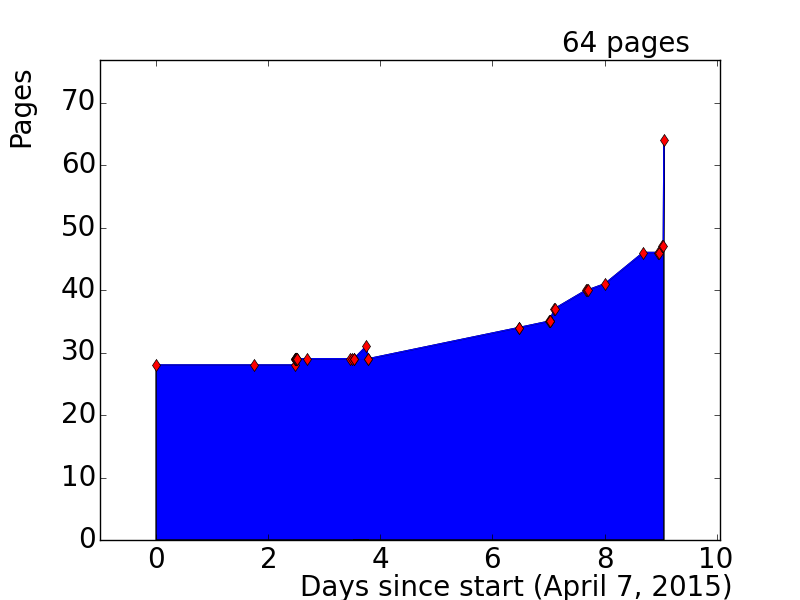
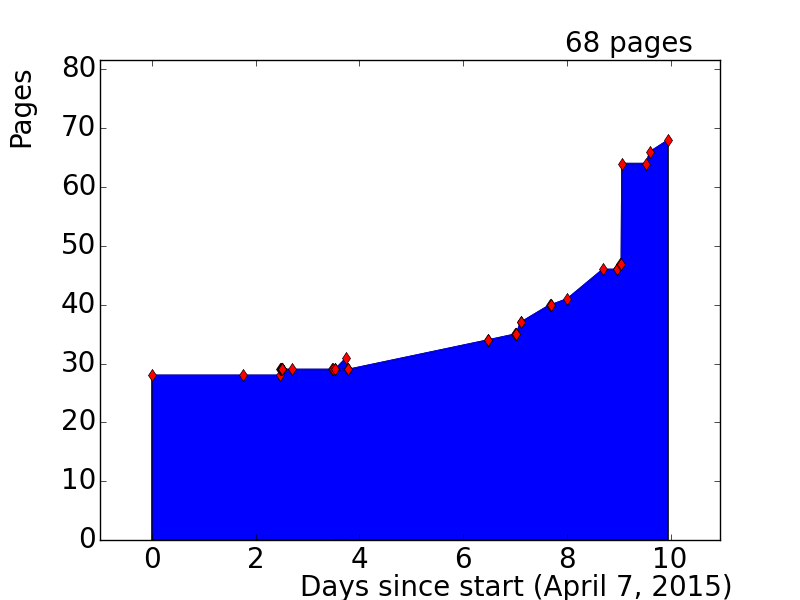
Almost done with LAr

diff --git a/ch3-experiment.tex b/ch3-experiment.tex
@@ -136,13 +136,17 @@ In general, a higher total integrated luminosity, $L{\mathrm{int}}=\int L dt$, i
 The delivered luminosity in 2011 and 2012 will be discussed later in section~\ref{sec:luminosity-measurement}.
 
 
-\section{The ATLAS Experiment}
+\section{The ATLAS Experiment}\label{sec:the-atlas-experiment}
+
 The ATLAS detector is a large, cylindrical collider detector located at IR1 on the LHC ring (figure~\ref{fig:LHC-IPs}). The detector measures the energy and momenta of charged and colored particles produced in the collisions provided by the LHC. It consists of several subsystems occupying a cylinder with a diameter of $25~\mbox{m}$ and a length of $46~\mbox{m}$, with a combined weight of approximately 7,000 tons. Closest to the interaction region, the inner detector performs momenta measurements of charged particles by tracking their movement through a solenoidal magnetic field (section~\ref{sec:inner-detector}). Past the inner detector solenoid magnet, electromagnetic and hadronic calorimeters measure the energy of electrons, photons, and hadrons. Finally, the muon spectrometer provides additional tracking and particle identification for muons in large toroidal magnetic field. 
 
-\underline{\textbf{Coordinate System}}
+This section describes the design of the magnets, inner detector, calorimeters, and muon spectrometer. The identification of objects and the associated performance are described in section~\ref{sec:object-reconstruction}. 
+
+\subsection{Coordinate System}\label{sec:ATLAS-coordinate-system}
+
 The ATLAS detector uses a right-handed coordinate system, with $\hat{x}$ pointing from the interaction point towards the center of the LHC ring, $\hat{y}$ pointing up, and $\hat{z}$ pointing along the ring towards IR2. Due to the symmetry of the detector, cylindrical coordinates ($r,\theta,\phi$) are often used, with $r$ the transverse distance from the beam line, $\theta$ the polar angle from the beamline, and $\phi$ the azimuthal angle in the $x$-$y$ plane. The polar angle can also be expressed in term of the pseudorapidity, $\eta = -\log \tan \frac{\theta}{2}$, which is useful for describing the geometry of particles in part because difference in pseudorapidity, $\Delta\eta$, are invariant under longitudinal Lorentz boost along $\hat{z}$. For massless particles, the pseudorapidity is equal to the rapidity, $y=\frac12 \log \frac{E+p_z}{E-p_z}$. 
 
-\subsection{Magnets}
+\subsection{Magnets}\label{sec:ATLAS-magnets}
 ATLAS relies on four powerful superconducting magnets to bend the trajectories of charged particles, allowing the tracking detectors to provide measurements of their momenta. The solenoid provides a $2~\mbox{T}$ axial magnetic field in the volume of the inner detector, while the barrel and two endcap toroids provide a toroidal magnetic field ranging from $0.5$--$1~\mbox{T}$ for the muon spectrometer. The geometry of the magnets is shown in figure~\ref{figure:ATLAS-magnets-sketch}. Key parameters for the magnet system are shown in table~\ref{table:ATLAS-magnet-parameters}.
 
 \begin{figure}[htbp]
@@ -217,7 +221,8 @@ ATLAS relies on four powerful superconducting magnets to bend the trajectories o
 
 
 
-\underline{\textbf{Solenoid}}
+\subsubsection{Solenoid}\label{sec:ATLAS-magnets-solenoid}
+
 The central solenoid is shown in figure~\ref{fig:solenoid}. The solenoid consists of a single coil with 1154 windings made of high strength Al-stabilized NbTi conductor. The coil has an inner radius of $2.46~\mbox{m}$, an outer radius of $2.56~\mbox{m}$, and a length of $5.8~\mbox{m}$. With a nominal current of $7.73~\mbox{kA}$, the magnetic field is $1.998~\mbox{T}$ at the center of the solenoid, falling to $1.8~\mbox{T}$ at $z=1.7~\mbox{m}$ and $0.9~\mbox{T}$ the end of the inner detector cavity. The magnetic flux is returned via the steel in the hadronic calorimeter and its support structures. Liquid helium is used to cool the superconducting coil to an operating temperature of $4.5~\mbox{K}$. At nominal current, the stored energy is $40~\mbox{MJ}$. 
 
 The magnetic field at $z=0$ is shown in figure~\ref{fig:ATLAS-solenoid-Bfield}.
@@ -238,7 +243,8 @@ The magnetic field at $z=0$ is shown in figure~\ref{fig:ATLAS-solenoid-Bfield}.
 
 
 
-\underline{\textbf{Toroid}}
+\subsubsection{Toroid}\label{sec:ATLAS-magnets-toroid}
+
 The magnetic field for the muon spectrometer is provided by three large toroid magnets, each with eight superconducting coils. The magnets are shown in figure~\ref{fig:ATLAS-toroids}. The barrel toroid measures $25.3~\mbox{m}$ in length, with inner and outer diameters of $9.4~\mbox{m}$ and $20.1~\mbox{m}$, respectively. The two end-cap toroids are $5.0~\mbox{m}$ in length, with inner and outer diameters of $1.65~\mbox{m}$ and $10.7~\mbox{m}$, respectively. Both types of toroid contain eight coils, with 120 windings each in the barrel and 116 windings each in the end-caps. The endcap coils are rotated by $22.5^{\circ}$ from the barrel coils to optimize the bending power in the overlap region between the magnets. Like the solenoid, the conductor is Al-stabilized NbTi, operated at $4.5~\mbox{K}$. The nominal current is $20.5~\mbox{kA}$, producing a magnetic field that varies from $0.15~\mbox{T}$ to $2.5~\mbox{T}$ in the barrel region, and $0.2~\mbox{T}$ to $3.5~\mbox{T}$ in the end-caps. The bending power of the toroid is shown as a function of $\eta$ in figure~\ref{fig:toroid-bending-power}. The total stored energy at nominal current is $1.58~\mbox{GJ}$. 
 
 The field integral of the toroid is shown as a function of $\eta$ in figure~\ref{fig:ATLAS-toroid-Bintegral}. The field integral drops at the boundary between the barrel and end-caps, where the fields from the two magnets partially cancel. 
@@ -265,7 +271,8 @@ The field integral of the toroid is shown as a function of $\eta$ in figure~\ref
 
 
 
-\subsection{Inner Detector}
+\subsection{Inner Detector}\label{sec:ATLAS-inner-detector}
+
 The inner detector performs tracking charged particles traversing the $2~\mbox{T}$ solenoidal magnetic field in the region $|\eta|<2.5$. It also performs electron identification in the range $|\eta|<2.0$. It consists of three subdetectors occupying the volume closest to the interaction region, directly outside the beam pipe, as shown in figure~\ref{fig:ATLAS-ID}. Proceeding outwards from the interaction point, these are the pixel detector, the semiconductor tracker (SCT), and the transition radiation tracker (TRT). The pixel detector nominally provides three track measurements with high spatial resolution using silicon pixels. The SCT provides an additional four measurements using silicon strips. Finally, for particles with $|\eta|<2.0$, the TRT provides an average of 36 measurements per track using gaseous straw tubes, which aids the pattern recognition, improves the momentum resolution, and performs electron identification. The paths traversed by tracks through the barrel and end-cap layers are shown in figure~\ref{fig:ATLAS-ID-tracks}.
 
 \begin{figure}[htbp]
@@ -295,7 +302,7 @@ The inner detector performs tracking charged particles traversing the $2~\mbox{T
 \end{figure}
 
 
-\underline{\textbf{Pixel Detector}}
+\subsubsection{Pixel Detector}\label{sec:ATLAS-id-pixel-detector}
 
 The pixel detector consists of 1744 identical pixel sensors, each measuring $19\times63~\mbox{mm}^2$ and containing $144\times 328=47232$ pixels, for a total of $80.4\times 10^6$ pixels. The size of the pixels is dictated by the front-end electronics: in 128 of the 144 columns, the pixels have a pitch of $50\times 400 \micron^2$, while the remaining 16 columns have a pitch of $50\times 600 \micron^2$. For space reasons, eight pairs of pixels in each column are ganged to a common readout, giving a total of 46080 readout channels per sensor.
 
@@ -330,7 +337,7 @@ In the barrel, the pixels have an intrinsic accuracy of $10~\micron$ in the $R-\
 	\label{table:ATLAS-pixel-layout}
 \end{table}
 
-\underline{\textbf{SCT}}
+\subsubsection{SCT}\label{sec:ATLAS-id-sct}
 
 The SCT consists of 15912 sensors using single-sided, p-in-n type silicon strips. The use of single-sided strips lowers both the cost and the number of readout channels of the detector, which covers significantly more area than the pixel detector ($61.1~\mbox{m}^2$ versus $2.3~\mbox{m}^2$). In the barrel, the strips have a pitch of $80~\micron$ and a length of $12~\cm$. In the endcaps, the sensors are trapezoidal with radially arranged strips, with a mean strip pitch of $80~\micron$ and a length of $12~\cm$. Each sensor has 768 active strips. Like the pixel sensors, the operating voltage will be $\sim150~\mbox{V}$ initially, and will increase to $250$-$350~\mbox{V}$ after several years of irradiation, depending on the location of the sensor. 
 
@@ -356,11 +363,120 @@ The intrinsic accuracy of the SCT sensors is $17~\micron$ along the strip pitch,
 	\label{fig:ATLAS-SCT-layout}
 \end{table}
 
-\underline{\textbf{TRT}}
+\subsubsection{TRT}\label{sec:ATLAS-id-trt}
 
-The TRT is constructed from polyimide drift (straw) tubes, measuring $4~\mm$ in diameter and $144~\cm$ ($37~\cm$) in length in the barrel (end-caps). 
+The TRT detector elements are polyimide drift (straw) tubes. The straws are arranged such that charged particles with $\pt > 500~\MeV$ and $|\eta|<2.0$ traverse at least 36 straws, except in the barrel/end-cap transition region where particles traverse as few as 22 straws. The straws are interleaved with polypropylene fibers in the barrel and polypropylene foils in the end-caps to provide transition radiation; electrons with $\pt>2.0~\GeV$ typically leave $7$-$10$ high-threshold hits. The intrinsic resolution of the straws is $130~\micron$ in the transverse direction.
 
-\subsection{Calorimetry}
+The straws measure $4~\mm$ in diameter and $144~\cm$ ($37~\cm$) in length in the barrel (end-caps). The straw walls consist of two $35~\micron$ films bonded back-to-back. The base film material is a $25~\micron$ thick layer of polyamide, which is coated on the exterior side with a $0.2~\micron$ thick layer of Al and a $5$-$6~\micron$ thick protective layer of graphite-polyamide. The other side of the film is coated with a $5$-$6~\micron$ thick layer of polyurethane, which is used to heat-seal the two film layers together. The anodes of the detectors are tungsten wires running down the axis of the tubes, with $31~\micron$ diameter and plated with $0.5$-$0.7~\micron$ of gold. The wires are supported at the end of the straw by an end plug, where they connect to the front-end electronics. At the middle of the straw, the wires are supported by a plastic insert, and are also split electrically by a fused glass capillary to reduce occupancy. The active length of each half of the wire is $71.2~\cm$, with a $2~\cm$ inefficient length at the middle. The signal attenuation length is $\sim 4~\mbox{m}$, and the signal propagation time is $\sim 4 \mbox{ns}/\mbox{m}$. The straws are filled with a mixture of 70\% Xe, 27\% CO$_2$, and $3\%$ O$_2$. With a cathode voltage of $-1530~\mbox{V}$, the gain in the straws is $2.5\times 10^4$.
+
+The layout of the straws in the barrel and end-caps is summarized in table~\ref{table:ATLAS-TRT-layout}. In the barrel, the straws are arranged into three layers of modules as shown in figure~\ref{fig:barrel-modules}, with different dimensions and straw counts depending on the layer. The straws are interleaves with transition radiation material, polypropylene fibers measuring $19~\micron$ in diameter. The module shell is made from $400~\micron$ thick carbon fiber, and serve not only as a support structure, but also as a gas manifold for CO$_2$, which prevents high-voltage discharges, flushes any Xe leaking from the straws, and conducts heat away from the straws.  
+
+The endcaps consist of 160 layers of 768 straws, arranged radially into 20 wheels with 8 layers each. The inner 12 wheels (type-A) are spaced $8~\mm$ in $z$, while the outer 8 wheels (type-B) are spaced by $15~\mm$. Each successive layer in a wheel is separated by a $15~\micron$ thick polypropylene radiator foil, and is rotated by $3/8$ of the azimuthal straw spacing to optimize the uniformity of the number of straw crossed.
+
+
+\begin{table}[htbp]
+	\centering
+	\begin{tabular}{|l|c|c|c|c|c|}
+		\hline
+		 & $z$ (mm) & $R$ (mm) & Modules & Layers & Straws/Module \\
+		 \hline
+		 \textbf{Barrel (both sides)} & $\mathbf{0\mhyphen780}$ & $\mathbf{554\mhyphen1082}$ & $\mathbf{96}$ & $\mathbf{73}$ & $\mathbf{52544}$ \\
+		 Type-1 module (inner) & $400\mhyphen712.1$ & $563\mhyphen624$ & \multirow{2}{*}{$32$} & $9$ & \multirow{2}{*}{$329$} \\
+		 Type-1 module (outer) & $7.5\mhyphen712.1$ & $625\mhyphen 694$ & & $10$ & \\
+		 Type-2 module & $7.5\mhyphen 712.1$ & $697\mhyphen860$ & $32$ & $24$ & $520$ \\
+		 Type-3 module & $7.5\mhyphen 712.1$ & $863\mhyphen 1066$ & $32$ & $30$ & $793$ \\
+		 \hline
+		 \textbf{End-cap (one side)} & $\mathbf{827\mhyphen 2744}$ & $\mathbf{615\mhyphen1106}$ & $\mathbf{20}$ & $\mathbf{160}$ & $\mathbf{122880}$ \\
+		 Type-A wheels & $848\mhyphen1705$ & $644\mhyphen1004$ & $12$ & $8$ & $6144$ \\
+		 Type-B wheels & $1740\mhyphen2710$ & $644\mhyphen1004$ & $8$ & $8$ & $6144$ \\
+		 \hline
+	\end{tabular}
+	\caption{Layout and straw counts of the TRT barrel modules and end-cap wheels. The totals for the barrel and end-caps, shown in bold, include services and electronics.}	
+	\label{table:ATLAS-TRT-layout}
+\end{table}
+
+
+\subsection{Calorimetry}\label{sec:ATLAS-calorimeters}
+The calorimeter system occupies the volume directly exterior to the solenoid magnet, and measures the energy of electrons, photon, and hadrons up to a pseudorapidity of $|\eta|=4.9$. The arrangement of the calorimeters is shown in figure~\ref{fig:ATLAS-calorimeters}. The system consists of a number of independent sampling calorimeters. The electromagnetic calorimeter measures the energy of electrons and photons using lead and liquid argon (LAr) to measure the energy of electrons and photons. The hadronic calorimeter measures the energy of hadrons using steel and scintillator tiles in the barrel and copper and LAr in the end-caps. Finally, electromagnetic and hadronic calorimetry is performed in the forward region using copper-LAr and tungsten-LAr technology. Besides performing energy measurements, the calorimeters providing containment electrons, photons, and hadrons, which effectively provides shielding for the muon spectrometer~\ref{sec:ATLAS-muon-spectrometer}. 
+
+\begin{figure}[htbp]
+	\centering
+	\resizebox{0.6\textwidth}{!}{\includegraphics{figures/ch3-experiment/ATLAS_calorimeters_sketch}}
+	\caption{A 3D model of the ATLAS calorimeters, showing the electromagnetic barrel and end-caps, hadronic barrel and end-caps, and the forward calorimeter.}
+	\label{fig:ATLAS-calorimeters}
+\end{figure}
+
+
+\subsubsection{Electromagnetic Calorimeter}\label{sec:ATLAS-calorimeters-ecal}
+% TO DO: Pictures!
+
+The electromagnetic calorimeter consists of two half-barrels ($0<\eta<\pm1.475$) and two end-caps ($1.375<|\eta|<3.2$), all of which use LAr as the active material and steel-clad lead plates as the absorber. The lead plates are arranged in an accordion geometry to provide a uniform, gapless coverage in $\hat{\phi}$, shown for a barrel module in figure~\ref{fig:ATLAS-LAr-module}. The plates are interleaved with electrodes built from copper etchings on polymide. The outer conductive layers of the electrodes distribute the $2000~\mbox{V}$ high voltage over the electrode surface, which drifts the charges induced by ionization in the LAr towards the electrodes with a drift time of $450~\mbox{ns}$. The inner layer of the electrode, separated from the outer layers by isolating foils, collects the signals via capacitive coupling.
+
+The two half-barrels occupy the region $2.8~\mbox{m}<R<4~\mbox{m}$ and $0~\mbox{m}<z<\pm3.2~\mbox{m}$. Each has 1024 lead plates with a thickness of $1.53~\mm$ for $|\eta|<0.8$ and $1.13~\mm$ for $|\eta|>0.8$. The barrels are divided into 16 modules, each covering an azimuthal angle of $\Delta \phi = 22.5^{\circ}$. Each module has three layers in depth to provide a rough measurement of the longitudinal profile of the electromagnetic showers. The segmentation of each layer in $\Delta\eta\times\Delta\phi$ is shown in table~\ref{table:ATLAS-LAr-segmentation}. The fine segmentation of the front layer, closest to the interaction point, aids particle identification and, in combination with the middle layer, allows for a reasonable measurement of photon trajectories.  
+
+The end-caps, one on either side of the interaction region, measure $63~\cm$ in thickness with inner and outer radii of $33~\cm$ and $209.8~\cm$, respectively. Each end-cap contains two co-axial sub-wheels, divided by a $3~\mm$ gap at $|\eta|=2.5$. The inner and outer wheels contain 256 and 768 lead absorbers, respectively, with the same accordion geometry as used in the barrel.
+
+% Material, dead material, and presampler design
+The total amount of material before and in the electromagnetic calorimeters is shown in figure~\ref{fig:ATLAS-material-interaction-lengths} in terms of interaction lengths $X_0$. Note that 
+
+% Conclusion
+In total, the electromagnetic calorimeter has 101,760 readout channels for the barrel, 62,208 channels for the end-caps, 7,808 channels for the barrel presampler, and 1,536 channels for the end-cap presamplers. 
+
+\begin{figure}
+	LAr pictures
+\end{figure}
+
+
+\begin{table}[htbp]
+	\centering
+	\begin{tabular}{|l|c|c|}
+		\hline
+		Layer & $\eta$ range & Granularity $\Delta\eta\times\Delta\phi$ \\
+		\hline
+		Barrel presampler & $|\eta|<1.52$ & $0.025\times0.1$ \\
+		\hline
+		\multirow{2}{*}{Barrel 1} & $|\eta|<1.40$ & $0.025 / 8 \times 0.1$ \\
+		 & $1.40<|\eta|<1.475$ & $0.025\times0.025$ \\
+		\hline
+		\multirow{2}{*}{Barrel 2} & $|\eta|<1.40$ & $0.025\times0.025$ \\
+		 & $1.40<|\eta|<1.475$ & $0.075\times 0.025$ \\
+		\hline
+		Barrel 3 & $|\eta|<1.35$ & $0.050\times0.025$ \\
+		\hline
+		\hline
+		\multirow{7}{*}{End-cap 1} & $1.375<|\eta|<1.425$ & $0.050\times0.1$ \\
+		 & $1.425<|\eta|<1.5$ & $0.025\times0.1$ \\
+		 & $1.5<|\eta|<1.8$ & $0.025/8\times0.1$ \\
+		 & $1.8<|\eta|<2.0$ & $0.025/6\times0.1$ \\
+		 & $2.0<|\eta|<2.4$ & $0.025/4\times0.1$ \\
+		 & $2.4<|\eta|<2.5$ & $0.025\times0.1$ \\
+		 & $2.5<|\eta|<3.2$ & $0.1\times0.1$ \\
+		\hline
+		\multirow{3}{*}{End-cap 2} & $1.375<|\eta|<1.425$ & $0.050\times0.025$ \\
+		 & $1.425<|\eta|<2.5$ & $0.025\times0.025$ \\
+		 & $2.5<|\eta|<3.2$ & $0.1\times0.1$ \\
+		\hline
+		End-cap 3 & $1.5<|\eta|<2.5$ & $0.050\times0.025$ \\
+		\hline
+	\end{tabular}
+	\caption{Granularity of each layer of the LAr electromagnetic calorimeter.}
+	\label{table:ATLAS-LAr-segmentation}
+\end{table}
+
+
+
+
+
+The calorimeter system surrounds the solenoid, and consists of electromagnetic and hadronic components. The electromagnetic calorimeter is a lead/liquid argon (LAr) sampling calorimeter, and comprises a barrel ($|\eta|<1.475$) and two endcaps ($1.375<|\eta|<3.2)$. In the range $|\eta|<2.5$, the detector is finely segmented in $\eta$ to provide good spatial resolution. The hadronic calorimeter (HCAL) uses steel/scintillator tiles in the barrel ($|\eta|<1.7$) and copper/LAr in the endcaps ($1.5<|\eta|<3.2$). In the forward region ($3.1<|\eta|<4.9$), electromagnetic and hadronic calorimetry is performed using copper/LAr and tungsten/LAr technology.
+
+
+
+\subsubsection{Hadronic Calorimeter}\label{sec:ATLAS-calorimeters-hcal}
+
+
+\subsubsection{Forward Calorimeter}\label{sec:ATLAS-calorimeters-fcal}
+
+
 
 \subsection{Muon System}
 

diff --git a/thesis.tex b/thesis.tex
@@ -10,6 +10,7 @@
 \usepackage{latex/atlasphysics}
 \usepackage{siunitx}
 \usepackage{subfig}
+\usepackage{multirow}
 
 
 % Double spacing, if you want it.

diff --git a/pages.md b/pages.md
@@ -41,3 +41,6 @@
 + [2015-04-16-00h37m08s] 47
 + [2015-04-16-01h09m06s] 47
 + [2015-04-16-01h24m46s] 64
++ [2015-04-16-12h33m20s] 64
++ [2015-04-16-14h23m41s] 66
++ [2015-04-16-22h47m46s] 68
